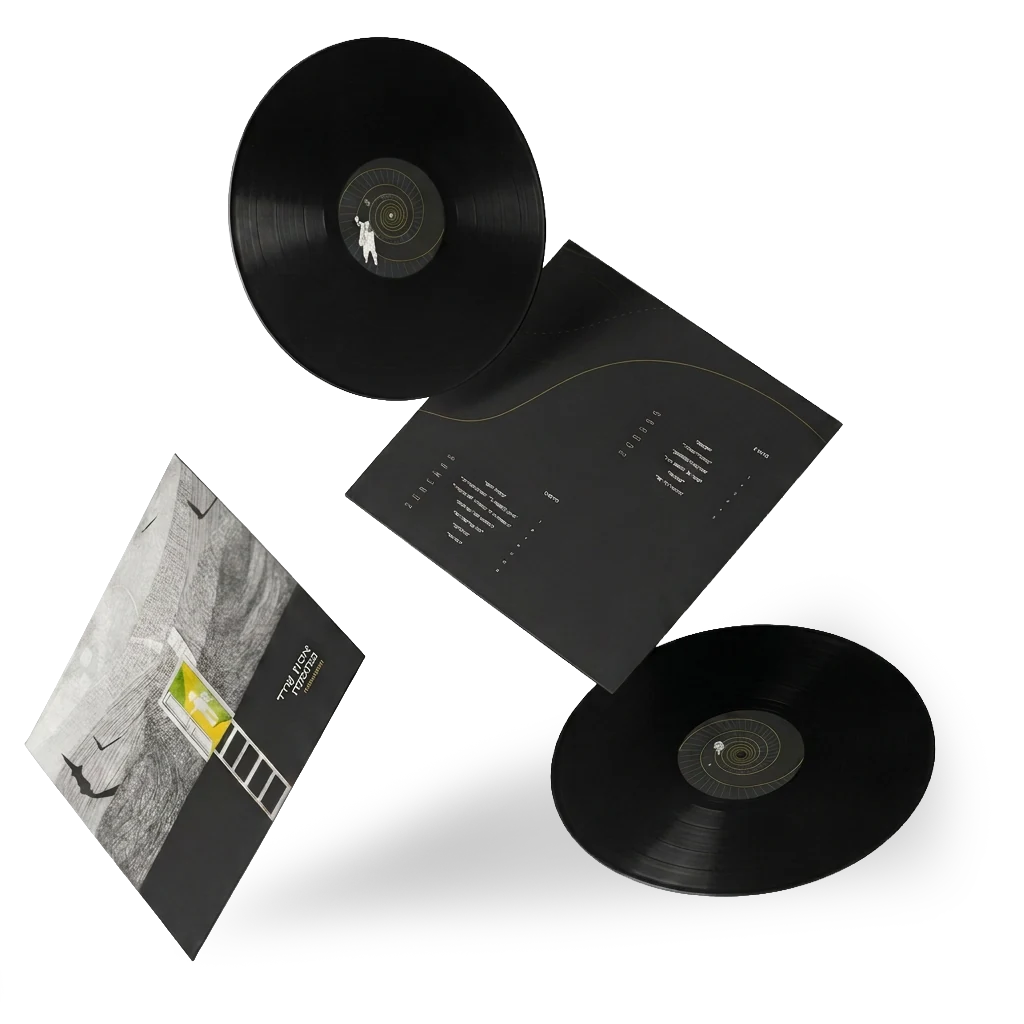
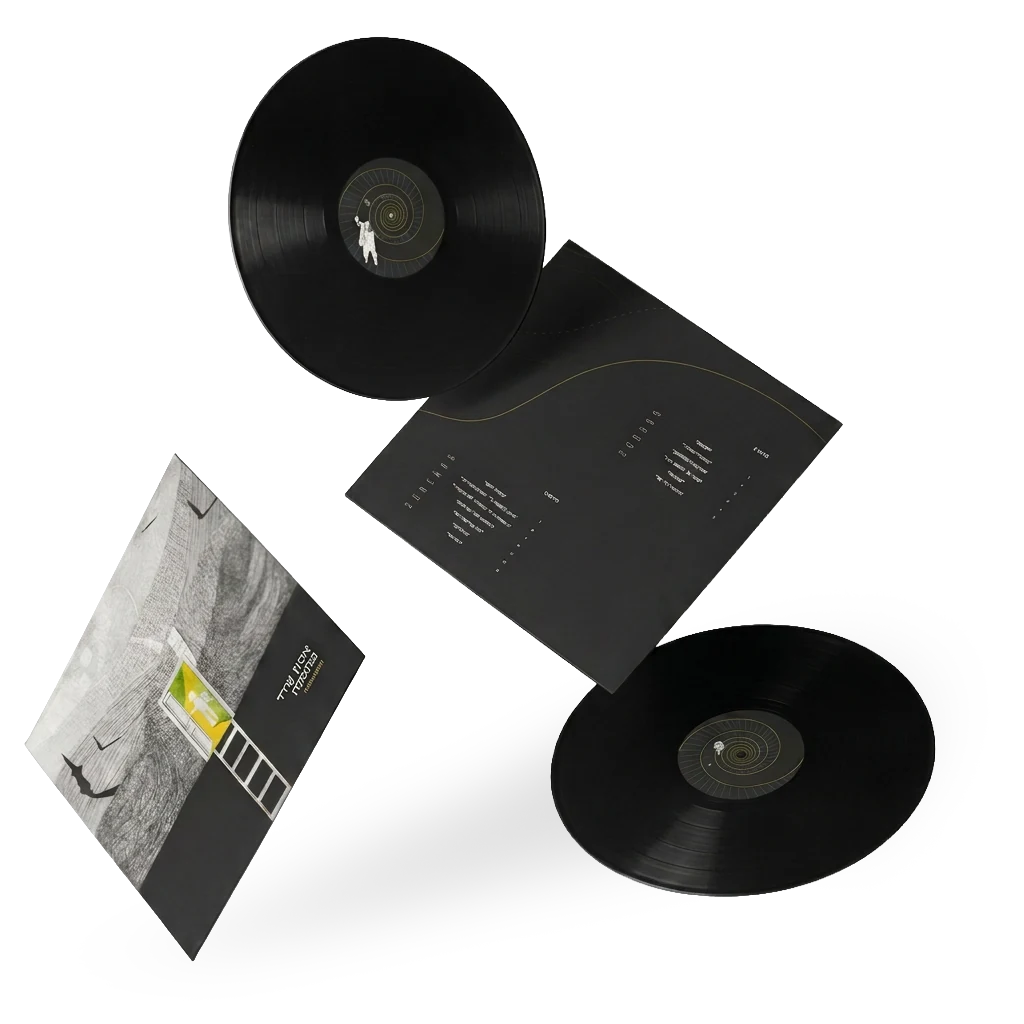
Use the lighter Open Door cover
The shadow on the previous one sat heavier than the rest of the run. The
new file spreads it over less of the canvas and at lower opacity: 5.1% of
the square carries partial alpha against 7.0%, averaging 23 of 255 rather
than 29. On the page ground the card now reads at the same weight as the
other five.

The link carries the new hash, so a browser that already has the old one
fetches this instead of serving what it has.

Claude-Session: https://claude.ai/code/session_01W9nRTNjjATAc83RHb9wNSu

Changed region(s): [[0.4062, 0.8125, 0.625, 0.875], [0.8438, 0.7812, 0.9062, 0.8438]]

diff --git a/index.html b/index.html
@@ -269,7 +269,7 @@
 
       <a href="projects/hadelet-haptucha.html" class="work work--right reveal">
         <figure class="work__frame">
-          <img src="assets/projects/hadelet-haptucha/cover.webp?v=dedf742e" width="1024" height="1024" alt="The Open Door sleeve with two records" />
+          <img src="assets/projects/hadelet-haptucha/cover.webp?v=58466da4" width="1024" height="1024" alt="The Open Door sleeve with two records" />
         </figure>
         <div class="work__meta" dir="rtl">
           <span class="work__index">06</span>
